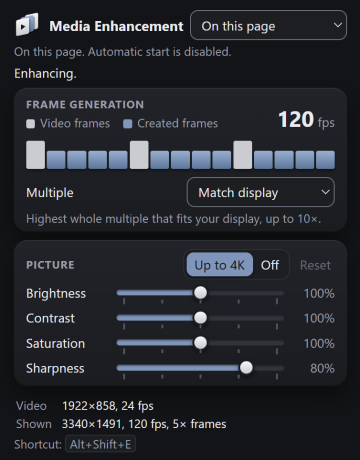
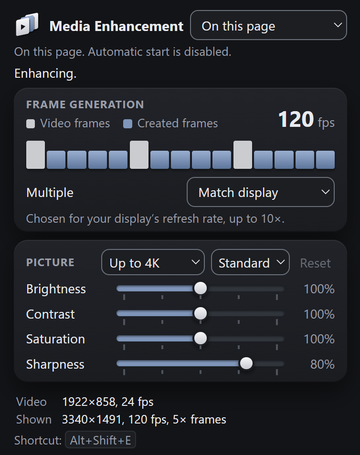
README: browser extension 1.4.9 for Chrome, Edge and Brave (upscaling sizes and qualities, Match display, frame rate on the toolbar button), Firefox 1.4.7 until Mozilla's review, new extension pictures
Claude-Session: https://claude.ai/code/session_01Af5hEsQram3B9KX5UcWWQt

diff --git a/README.md b/README.md
@@ -15,7 +15,7 @@ https://github.com/user-attachments/assets/4eaf30e4-067b-4c37-8afa-46ca031bc868
 
 It works as a DirectShow filter between the video decoder and the video renderer, so MPC-HC and MPC Video Renderer stay unmodified.
 
-A [converter](#converter) applies the same enhancements to video files, so the result plays anywhere. A [browser extension](#browser-extension) brings upscaling, frame generation and picture controls to video played in Chrome, Edge and Firefox.
+A [converter](#converter) applies the same enhancements to video files, so the result plays anywhere. A [browser extension](#browser-extension) brings upscaling, frame generation and picture controls to video played in Chrome, Edge, Brave and Firefox.
 
 ![The Media Enhancement control center](docs/images/control-center.png)
 
@@ -26,7 +26,7 @@ Media Enhancement is an independent project. It is not affiliated with, sponsore
 All are in the [latest release](../../releases/latest), whose notes list the SHA-256 checksums.
 
 - **For MPC-HC:** the installer, `Media-Enhancement-Setup-1.5.2.exe`. It can also install the converter (an option in Setup). See [Converter](#converter).
-- **For Chrome, Edge and Firefox:** the extension, `Media-Enhancement-Browser-1.4.6-Chrome-Edge.zip` and `Media-Enhancement-Browser-1.4.6-Firefox.xpi`. See [Browser extension](#browser-extension).
+- **For Chrome, Edge, Brave and Firefox:** the extension, `Media-Enhancement-Browser-1.4.9-Chrome-Edge-Brave.zip` and, for Firefox, `Media-Enhancement-Browser-1.4.7-Firefox.xpi` (the newer version follows once Mozilla has reviewed it). See [Browser extension](#browser-extension).
 
 ## Requirements
 
@@ -96,31 +96,34 @@ Use Settings › Apps › Installed apps › Media Enhancement › Uninstall, or
 
 The browser extension enhances video that plays in a web page:
 
-- **Upscaling:** it enlarges the picture to the size the video is shown at on your screen, up to 3840×2160, and sharpens it.
-- **Frame generation:** it adds generated in-between frames, 2× to 10× or matched to your display, never more than your display's refresh rate. At a scene cut it shows the two shots one after the other instead of blending them.
-- **Picture controls:** brightness, contrast, saturation and sharpness. Sharpness turns red above 80 %, the strongest setting that kept edges and flat areas within the measured limits on the test films; 80 % is the default.
+- **Upscaling:** it enlarges the picture to the size the video is shown at on your screen, up to 3840×2160 or a smaller size you choose (2560×1440 or 1920×1080), and sharpens it. The quality can be Fast (bilinear, the least work for the graphics card), Standard (Catmull-Rom, the default) or High (edge-adaptive, AMD FidelityFX Super Resolution 1 EASU).
+- **Frame generation:** it adds generated in-between frames, 2× to 10× or matched to your display, never more pictures than your display's refresh rate. Match display, the default, generates enough frames for a new picture on every refresh, 5× for 24 or 25 fps video on a 120 Hz display, and none when a frame lasts less than 1.75 refreshes (50 fps video on a 60 Hz display, for example). At a scene cut it shows the two shots one after the other instead of blending them.
+- **Picture controls:** brightness, contrast, saturation and sharpness. Sharpness turns red above the strongest setting that kept edges and flat areas within the measured limits on the test films: 90 % with Fast upscaling, 80 % with Standard and 60 % with High. Its default is 80 %, or 60 % with High.
+- **Frame rate on the toolbar button:** while the extension enhances a video, its toolbar button shows the frame rate. On blue, it is the pictures a second the extension draws; on grey, the video's own frame rate while the extension shows the video as it is; 0 while the video is paused or loading.
 
 It runs on your graphics card through WebGPU, inside the page. It does not use MPC-HC or the NVIDIA effects, so it is not limited to NVIDIA cards.
 
+**Firefox on Windows:** with its system compositor, Firefox put only part of the generated frames on the screen: at 3840×2160 on a 120 Hz display, 73 a second of 24 fps video at 5× instead of 120. The extension therefore switches that compositor off (the setting `gfx.webrender.compositor`) when it is installed. Restart Firefox once; until then the popup reminds you. Firefox needs the compositor for HDR video, so the popup has a switch, **Allow HDR video** (off by default), that gives Firefox its own setting back after a restart. Firefox also restores its own setting when the extension is disabled or removed.
+
 ![The extension's popup over a video playing in Chrome](docs/images/extension.png)
 
-The pictures were taken with version 1.4.6. The popup:
+The pictures were taken with version 1.4.9. The popup:
 
 <img src="docs/images/extension-popup.png" alt="The extension's popup" width="360">
 
 ### Install the extension
 
-- **Chrome or Edge:**
-  1. Download `Media-Enhancement-Browser-1.4.6-Chrome-Edge.zip` and unzip it to a folder you keep.
-  2. Open `chrome://extensions` (in Edge, `edge://extensions`) and switch on Developer mode.
+- **Chrome, Edge or Brave:**
+  1. Download `Media-Enhancement-Browser-1.4.9-Chrome-Edge-Brave.zip` and unzip it to a folder you keep.
+  2. Open `chrome://extensions` (in Edge, `edge://extensions`; in Brave, `brave://extensions`) and switch on Developer mode.
   3. Choose Load unpacked and select the folder.
-- **Firefox:** download `Media-Enhancement-Browser-1.4.6-Firefox.xpi` and open it in Firefox, or choose Install Add-on From File on the `about:addons` page. Mozilla has signed it for installation outside the add-ons site.
+- **Firefox:** download `Media-Enhancement-Browser-1.4.7-Firefox.xpi` and open it in Firefox (or choose Install Add-on From File on the `about:addons` page); Mozilla has signed it. It is version 1.4.7: it has the frame rate on the toolbar button and the change for Firefox on Windows described above, but not yet the upscaling sizes and qualities or Match display's new rule (it gives 4× for 25 fps video on a 120 Hz display). The newer version is waiting for Mozilla's review on [Firefox Add-ons](https://addons.mozilla.org/firefox/addon/media-enhancement/), where it is a new add-on: before you install it from there, remove the earlier version on the `about:addons` page. On Windows, restart Firefox once after installing.
 
 ### Use the extension
 
 1. Play a video on a page.
 2. Click the extension's icon and choose **On this page** in the list at the top, or press Alt+Shift+E.
-3. Choose upscaling (up to 4K, or off) and frame generation (off, 2× to 10×, or Match display, the default, which uses the highest whole multiple your display can show), and set the picture controls if you like (click a slider where you want it, or drag it); Reset brings them back. The popup shows the video's size and frame rate and what is shown on the screen.
+3. Choose upscaling (up to 4K, 1440p or 1080p, or off) and its quality, and frame generation (off, 2× to 10×, or Match display, the default, which chooses the multiple for your display's refresh rate), and set the picture controls if you like (click a slider where you want it, or drag it); Reset brings them back. The popup shows the video's size and frame rate and what is shown on the screen.
 
 The extension switches on by itself (**Automatic**, the default): when you install it, the browser asks you to let it access all sites. It then switches on when a video plays with its sound on, on any site. It leaves muted videos alone until you switch their sound on, and it also leaves small videos and short previews alone. If you switch it off in a tab, it stays off there until the tab shows another page. Choose **Off** or **On this page** to switch Automatic off; choose **Automatic** to switch it on again.
 
@@ -128,7 +131,7 @@ The extension shows fewer generated frames than you chose when your display's re
 
 ### Extension requirements
 
-- Chrome or Edge 121 or newer, or Firefox 144 or newer, with WebGPU available. The browser versions tested are listed in the release notes.
+- Chrome or Edge 121 or newer, Brave on Chromium 121 or newer, or Firefox 144 or newer, with WebGPU available. The browser versions tested are listed in the release notes.
 - A graphics card that the browser can use for WebGPU. Frame generation at 4K needs a fast dedicated graphics card.
 
 ### Extension limits
@@ -149,7 +152,7 @@ The extension shows fewer generated frames than you chose when your display's re
 
 ### Extension privacy
 
-The extension runs only on your computer and does not collect or send any data. It keeps only its own settings, in the browser. It asks for the active-tab, scripting and storage permissions. When you install it, the browser asks you to give it access to all websites, which Automatic, the default, needs. The extension then adds a small script to every page you open, which only notices when a video plays, and it switches the enhancement on in a page where a large video plays with its sound on. As when you switch it on yourself, the page can see the enhanced picture and the settings it uses. Choosing Off or On this page switches Automatic off; you can take the access back in the browser's extension settings.
+The extension runs only on your computer and does not collect or send any data. It keeps only its own settings, in the browser. It asks for the active-tab, scripting and storage permissions, and in Firefox also for browser settings, which it uses only to switch Firefox's system compositor off or back on (see Firefox on Windows above). When you install it, the browser asks you to give it access to all websites, which Automatic, the default, needs. The extension then adds a small script to every page you open, which only notices when a video plays, and it switches the enhancement on in a page where a large video plays with its sound on. As when you switch it on yourself, the page can see the enhanced picture and the settings it uses. Choosing Off or On this page switches Automatic off; you can take the access back in the browser's extension settings.
 
 ## Converter
 
